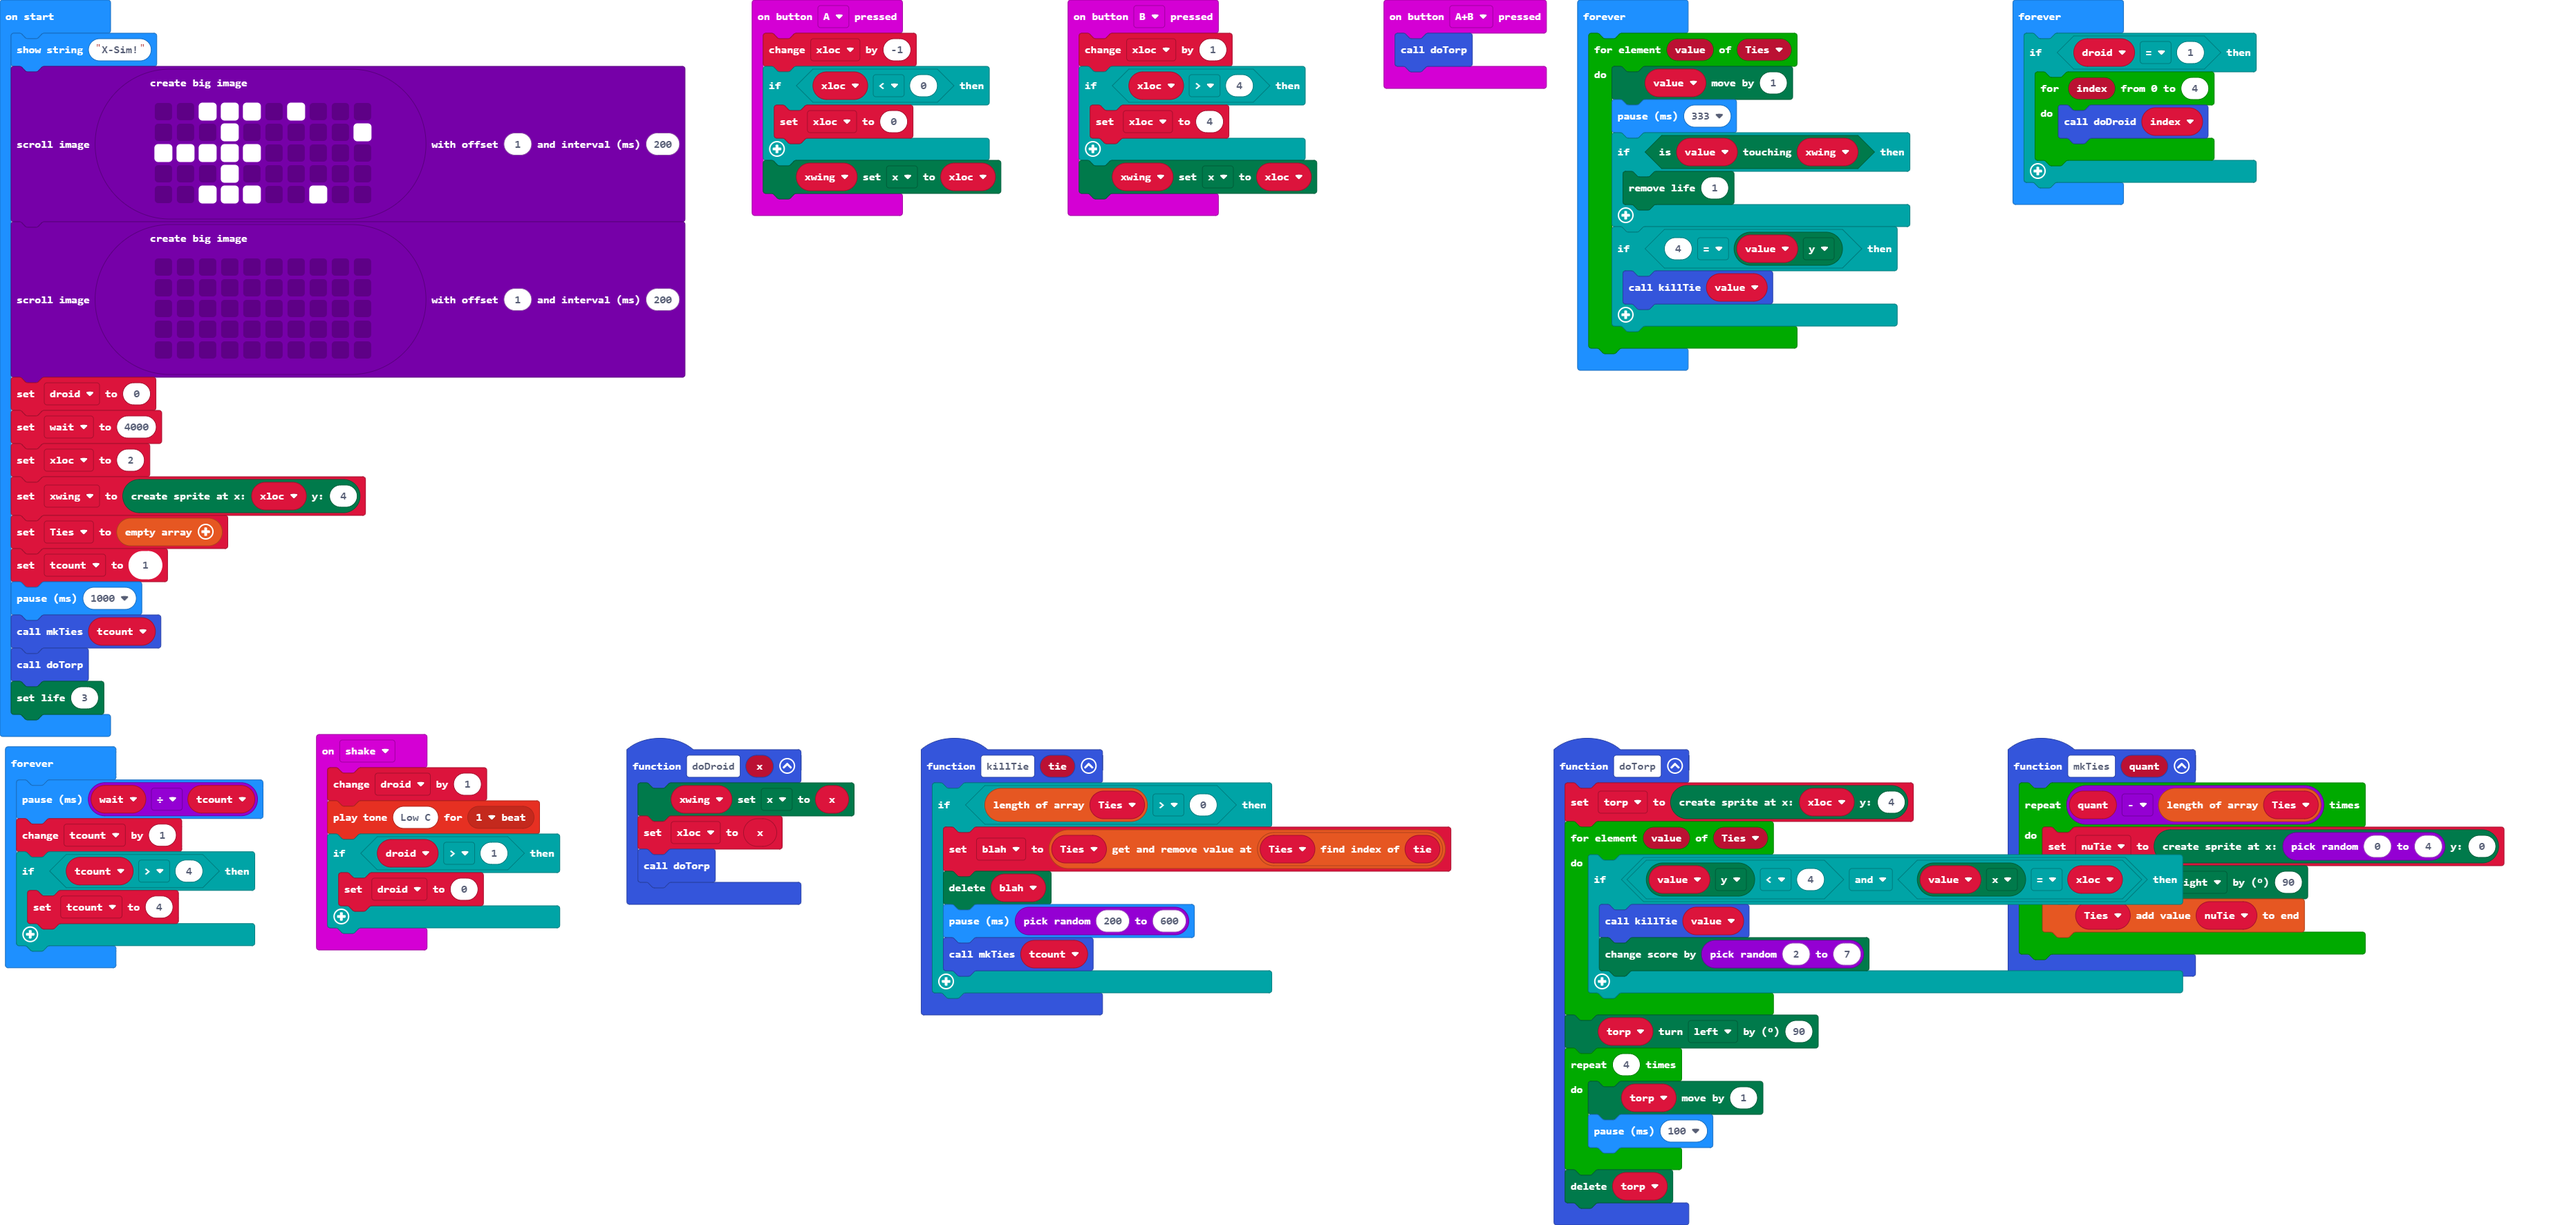
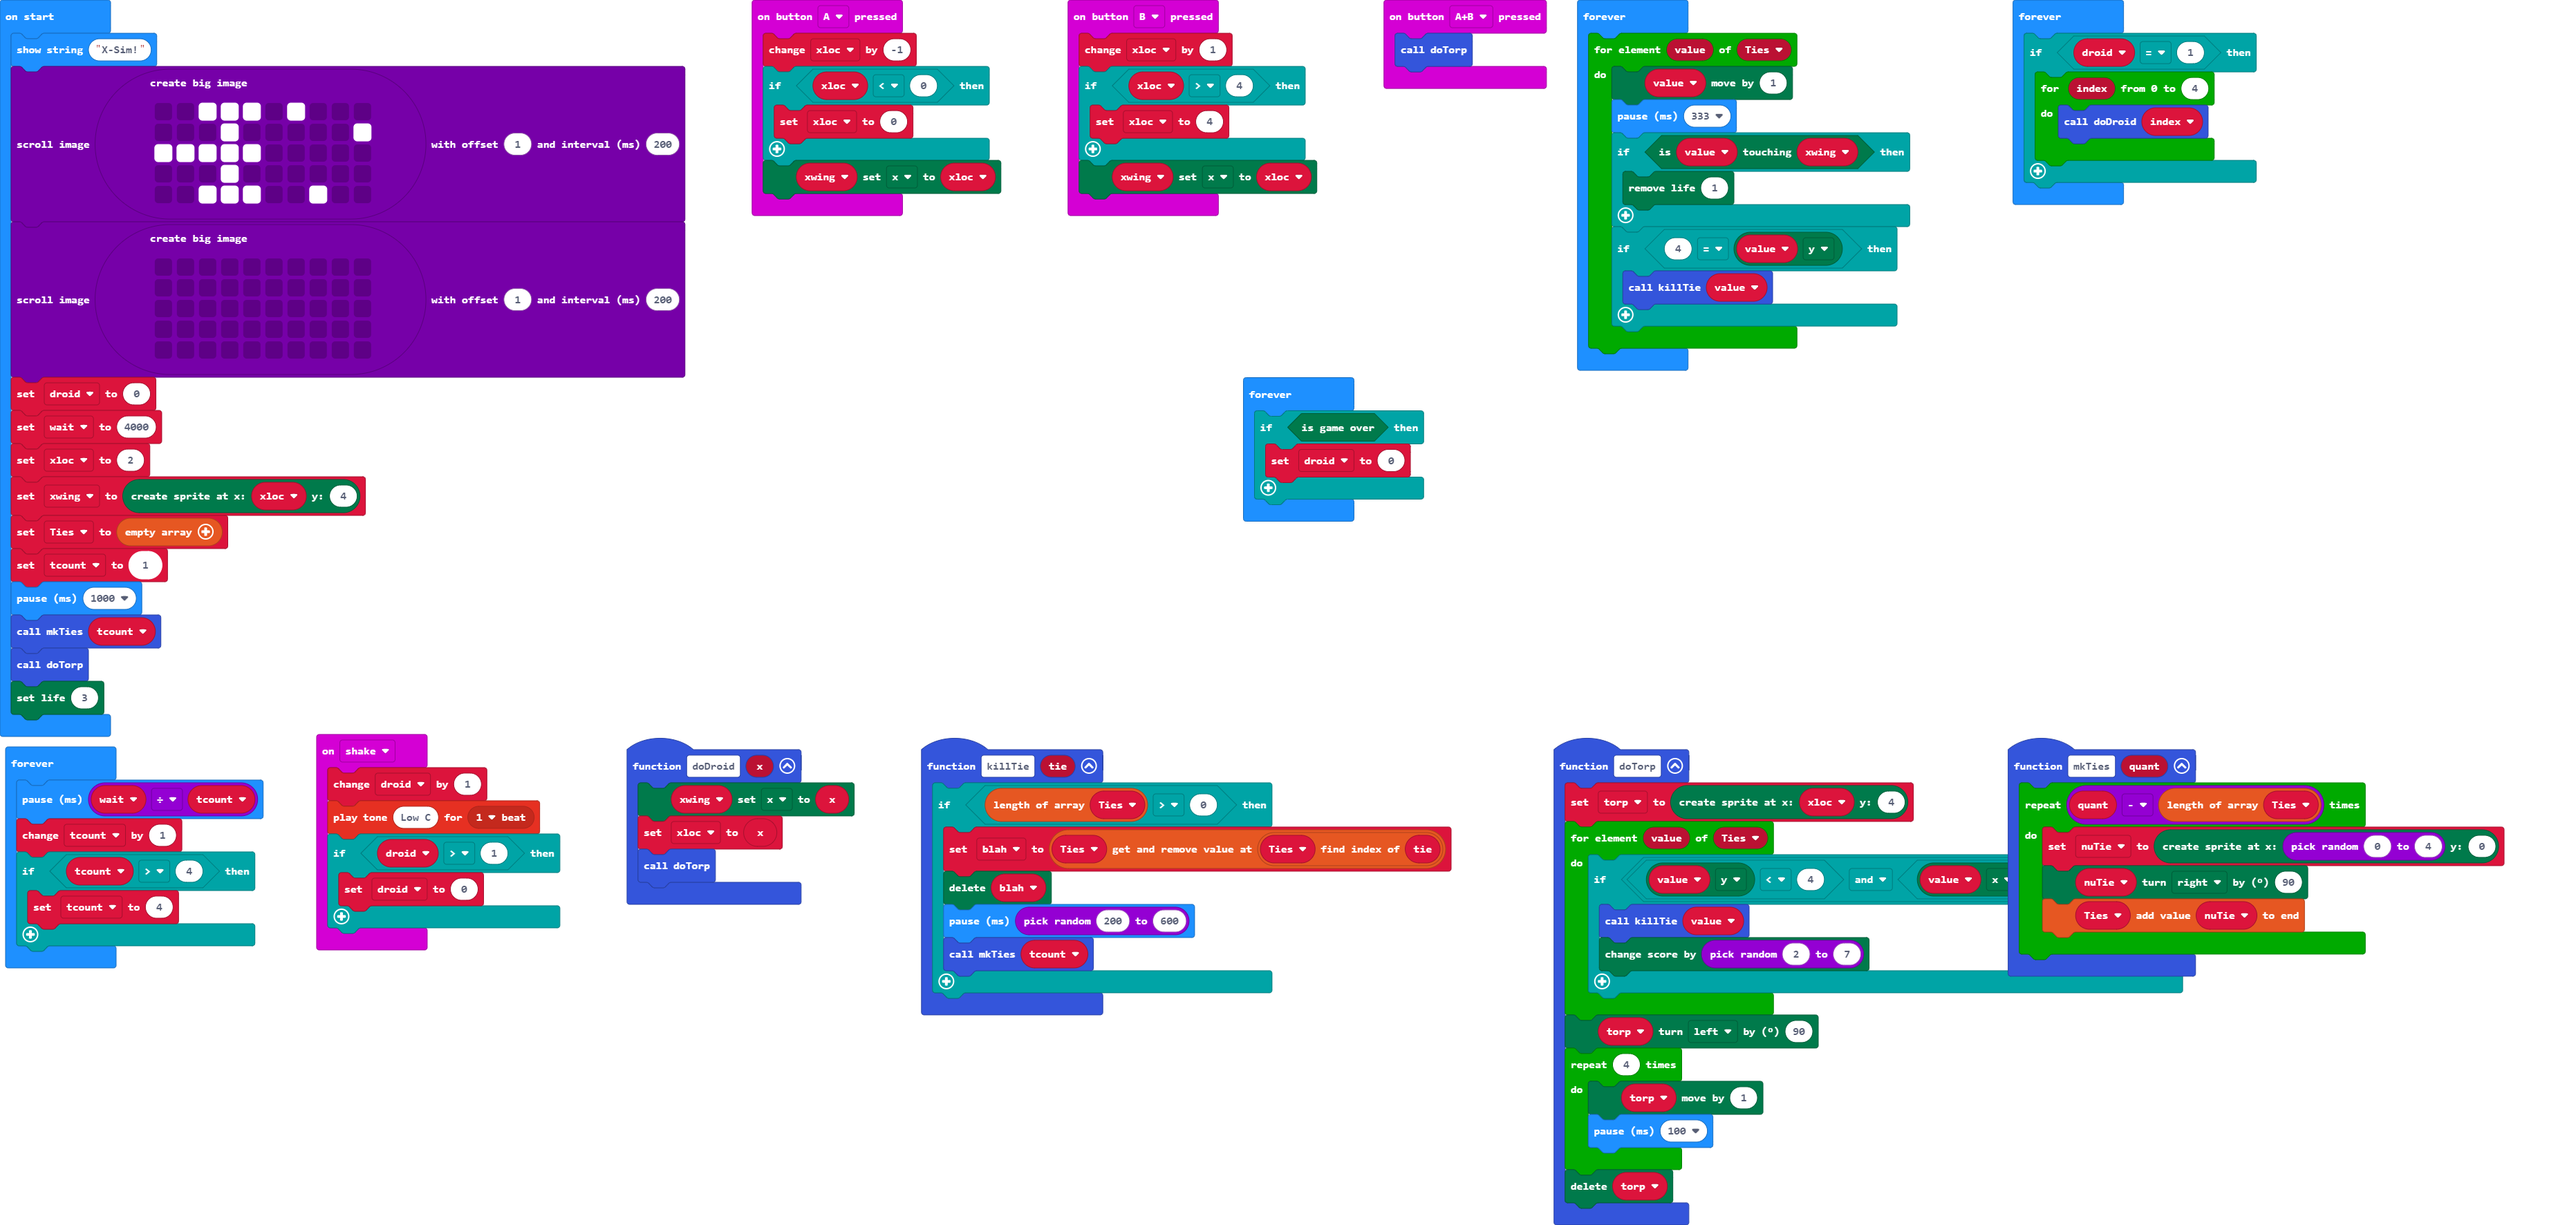
Update main.blocks, main.ts

Changed region(s): [[0.467, 0.3102, 0.5604, 0.4343], [0.7783, 0.6825, 0.8717, 0.7445], [0.7783, 0.7755, 0.8406, 0.8065]]

diff --git a/main.ts b/main.ts
@@ -110,6 +110,11 @@ basic.forever(function () {
     }
 })
 basic.forever(function () {
+    if (game.isGameOver()) {
+        droid = 0
+    }
+})
+basic.forever(function () {
     basic.pause(wait / tcount)
     tcount += 1
     if (tcount > 4) {
